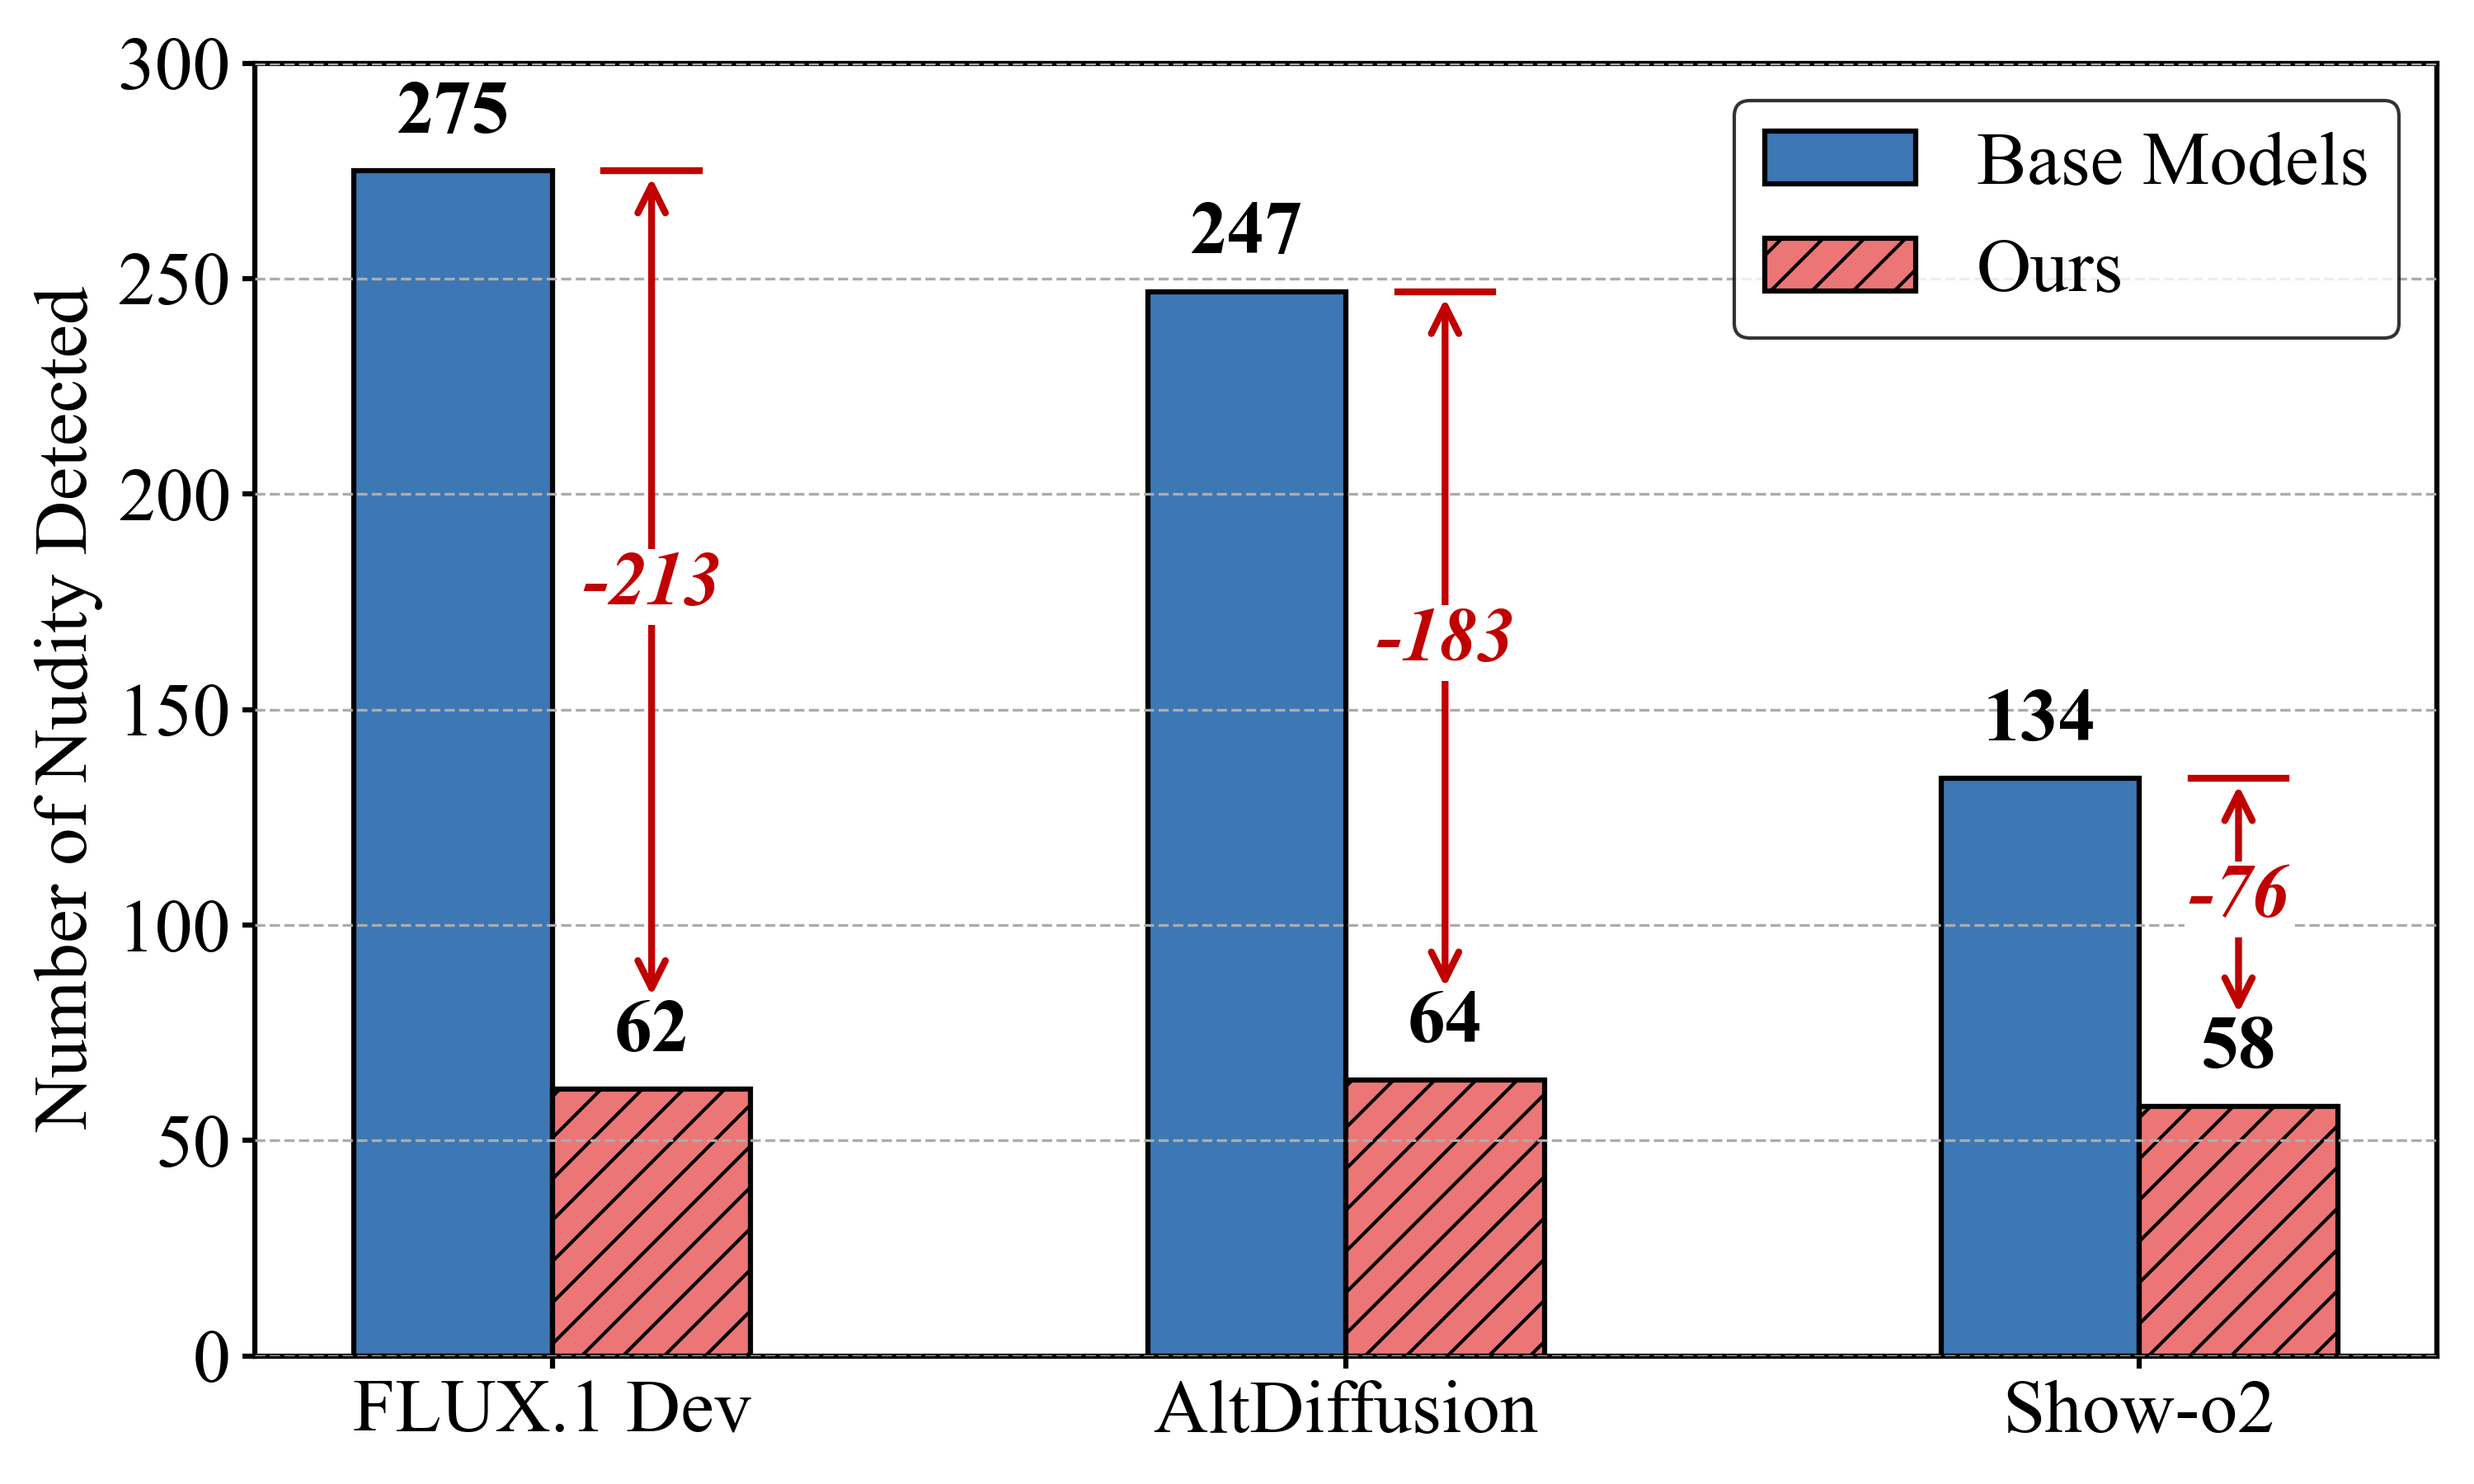
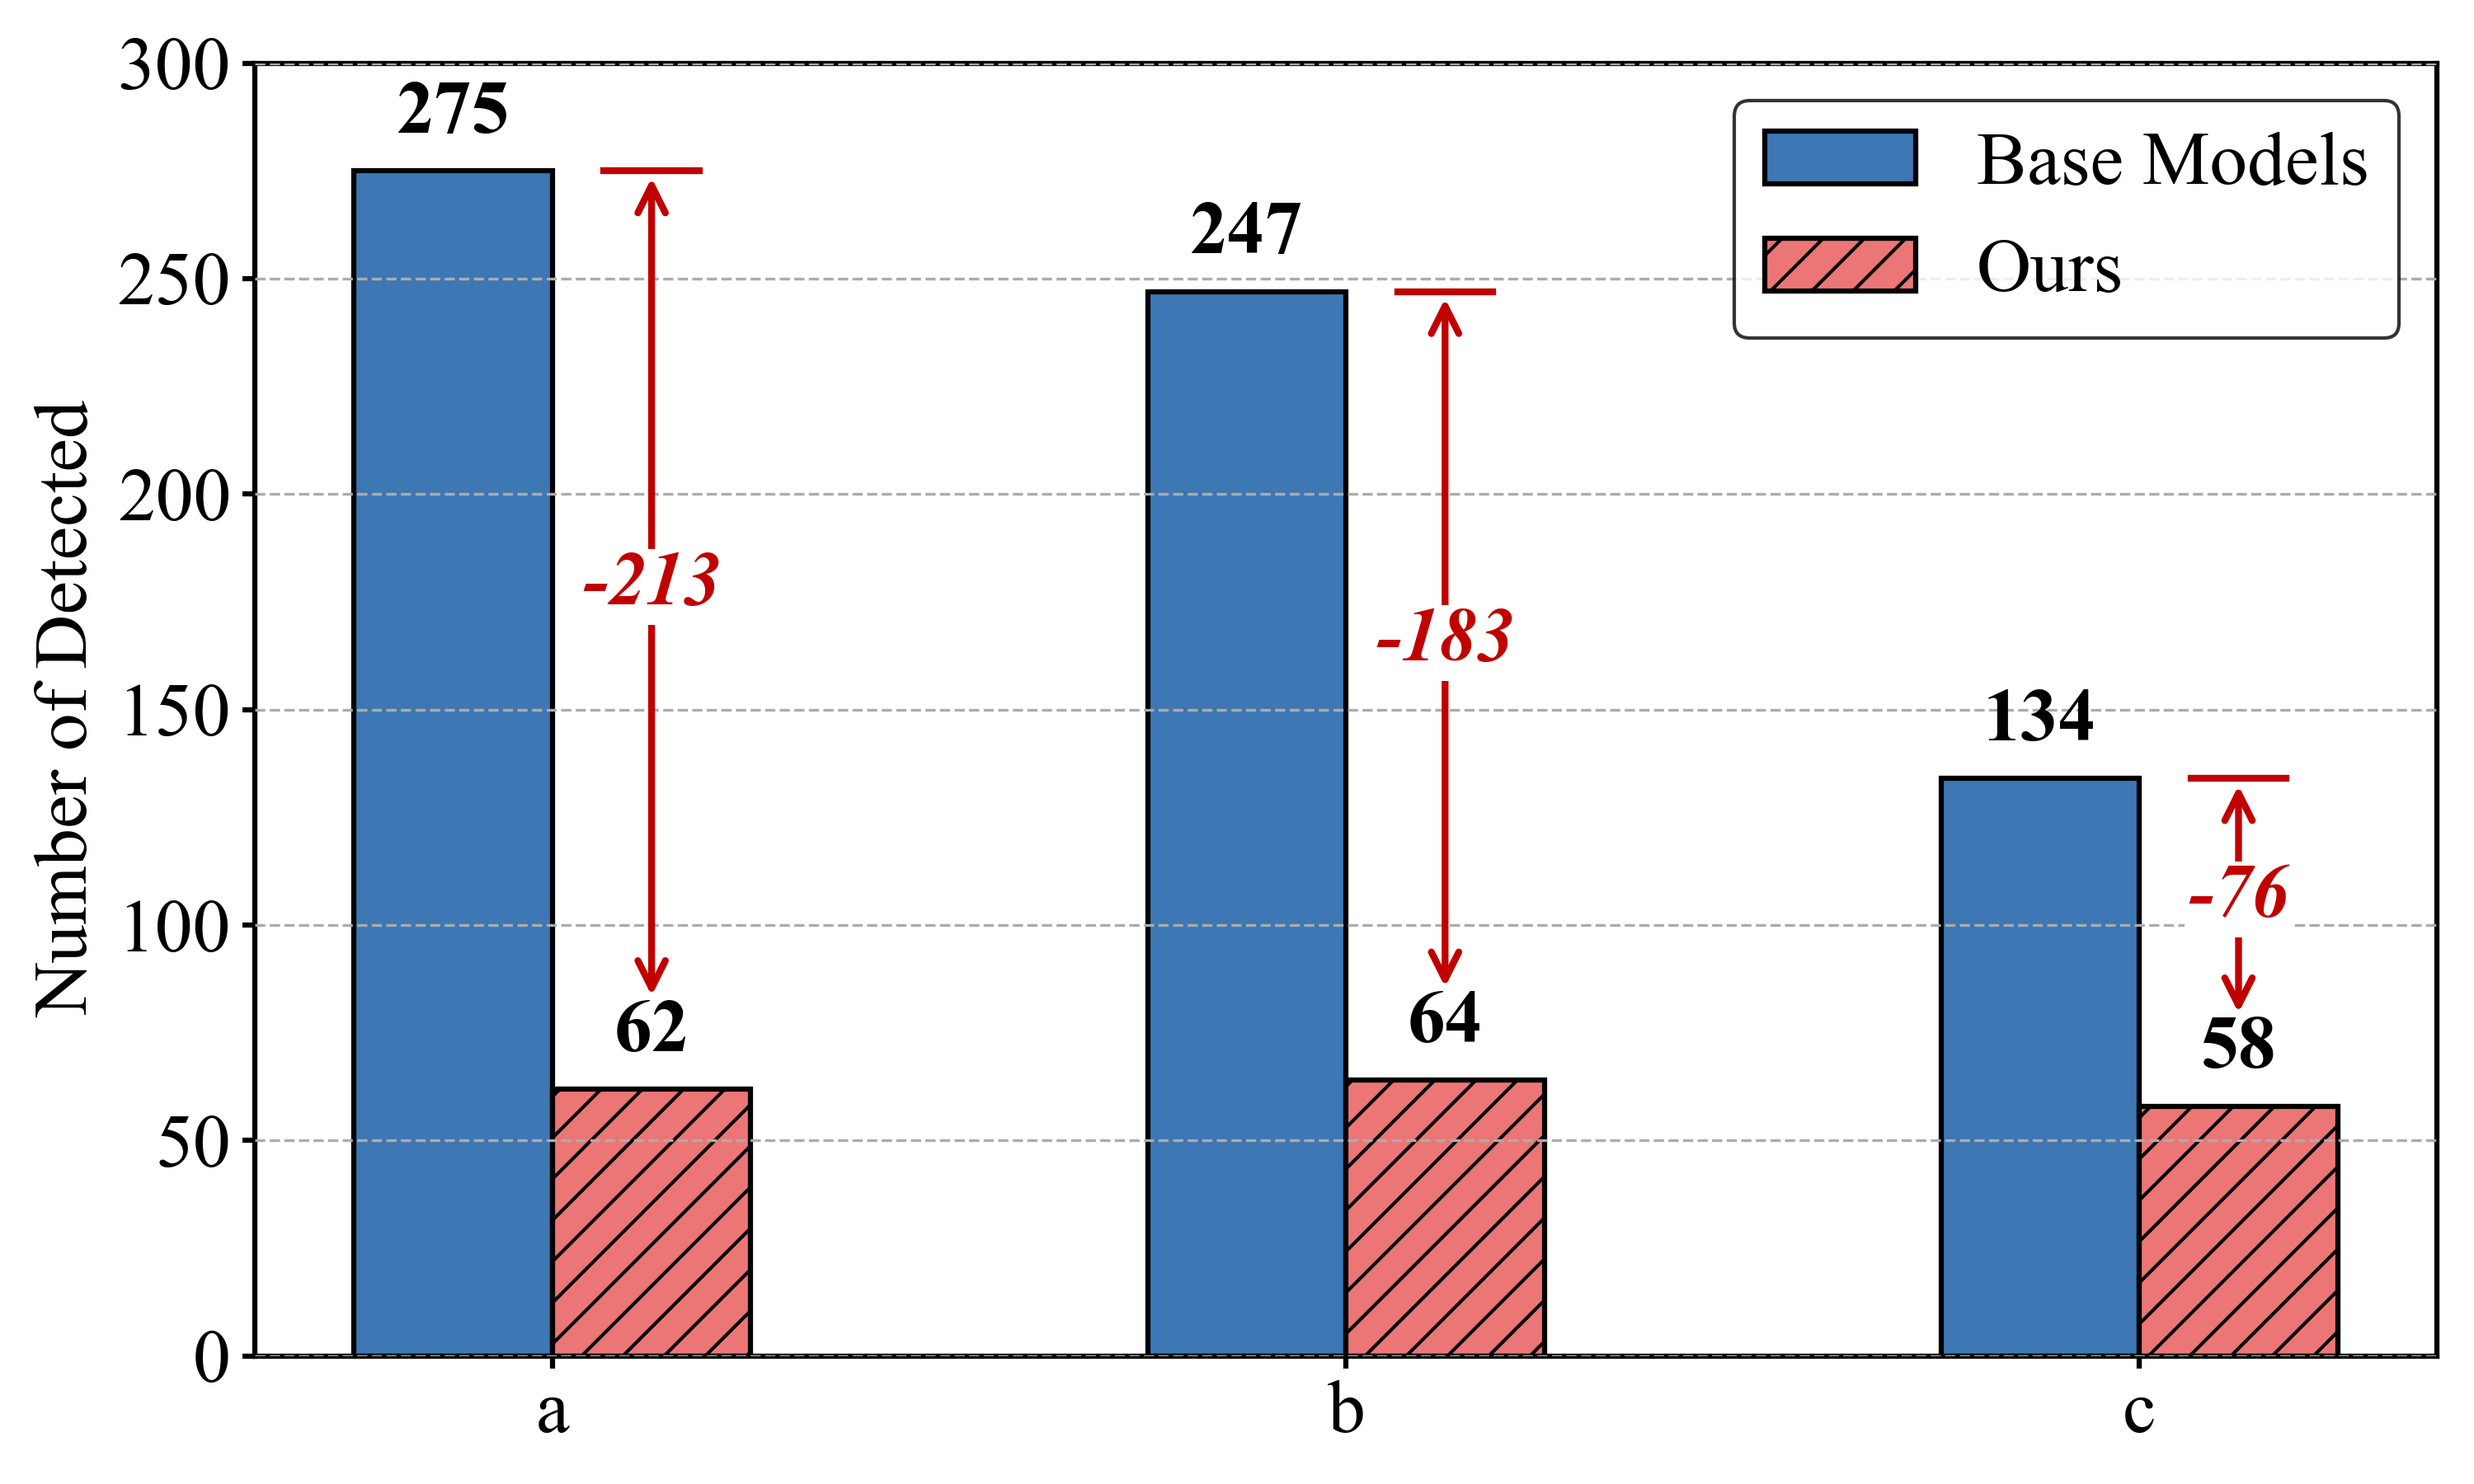
add 1.png

diff --git a/Bar_Chart/1.py b/Bar_Chart/1.py
@@ -9,7 +9,7 @@ plt.rcParams['font.serif'] = ['Times New Roman'] + plt.rcParams['font.serif']
 plt.rcParams['axes.unicode_minus'] = False 
 
 # --- 2. 数据准备 ---
-labels = ['FLUX.1 Dev', 'AltDiffusion', 'Show-o2']
+labels = ['a', 'b', 'c']
 base_models_scores = [275, 247, 134]
 aligned_models_scores = [62, 64, 58]
 diffs = [-213, -183, -76] 
@@ -39,7 +39,7 @@ for spine in ax.spines.values():
     spine.set_edgecolor('black')
 
 # 4.3 坐标轴细节调整
-ax.set_ylabel('Number of Nudity Detected', fontsize=22)
+ax.set_ylabel('Number of Detected', fontsize=22)
 ax.set_xticks(x)
 ax.set_xticklabels(labels, fontsize=22)
 ax.set_ylim(0, 300) 
@@ -61,7 +61,6 @@ for i in range(len(labels)):
     # 顶部和底部的红短横线
     line_w = 0.06
     ax.plot([x_pos - line_w, x_pos + line_w], [top_y, top_y], color='#C00100', lw=2, zorder=7)
-    # ax.plot([x_pos - line_w, x_pos + line_w], [target_y, target_y], color='#C00100', lw=2, zorder=7)
     
     # 垂直贯穿箭头
     ax.annotate('', 

diff --git a/Bar_Chart/README.md b/Bar_Chart/README.md
@@ -1,0 +1,6 @@
+# Bar Chart
+
+## Multiple baselines
+
+**It is more suitable when comparing multiple baselines with our own.**
+![](1.png)
